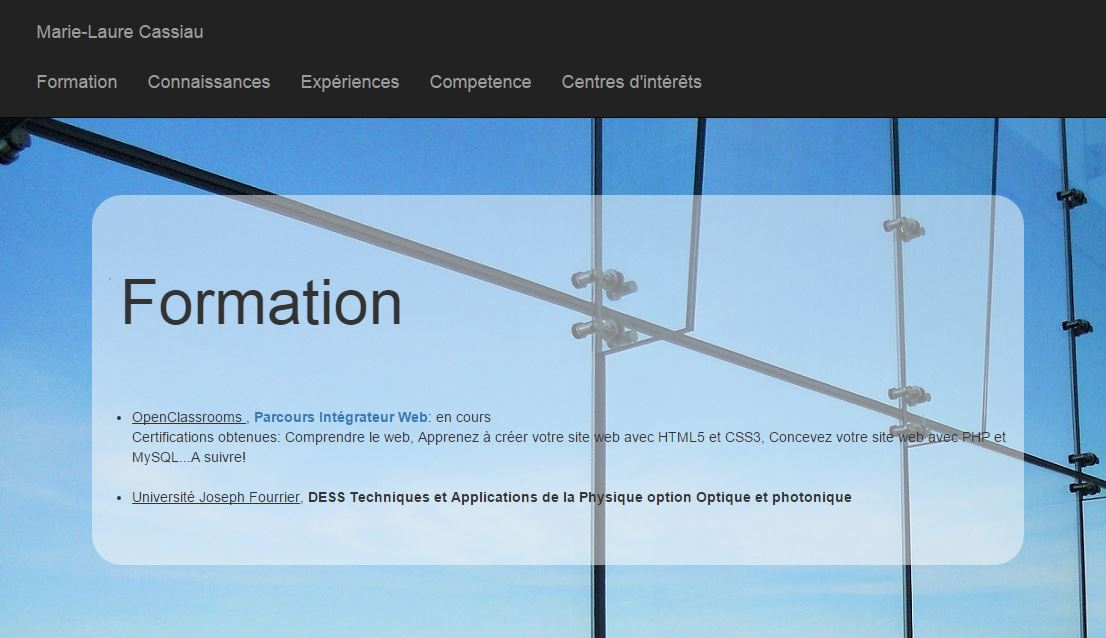
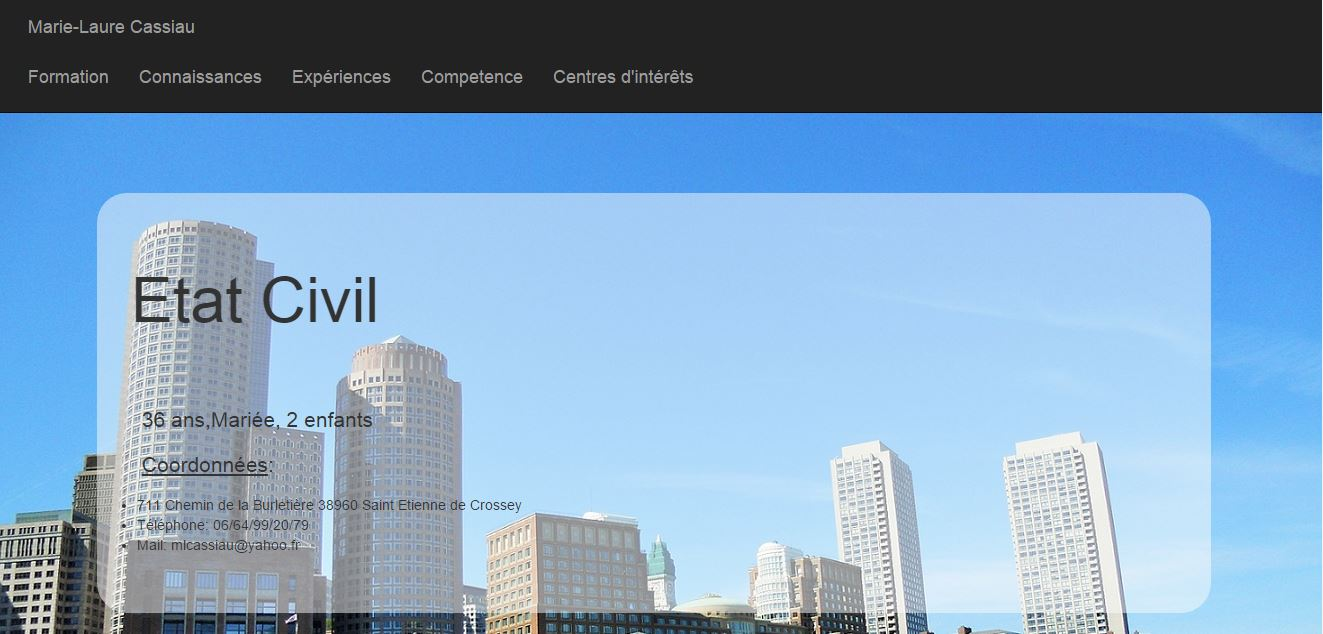
amélioration du visuel, meilleure utilisation des propriétés flex

diff --git a/projet_portfolio/Portfolio.css b/projet_portfolio/Portfolio.css
@@ -3,53 +3,60 @@
         background-color: whitesmoke;
         text-align: center;
         color:darkcyan;
-    }
-    #conteneur
-    {
-        display: flex;
-        -webkit-display:flex;
-        flex-wrap:wrap;
-        align-items:center
-            -webkit-align-items:center;
         background-image:linear-gradient(gainsboro,whitesmoke);
-
+        
     }
-    .element1
+ .element1
     {
         width:100%;
+        margin:auto;
+        margin-bottom: 30px;
 
     }
-    .element2
+/*=======================Premier Conteneur Flexbox: pavé coordonnées et pavé menu================================*/
+    #conteneur
     {
-        padding: 2%;
-        width:20%;
+       display: flex;
+       display: -webkit-flex;
+       -webkit-flex-flow:row wrap;
+       flex-flow:row wrap;
+        justify-content: space-around;
+       -webkit-justify-content: space-around;
+        align-items: center;
+        -webkit-align-items:center;
+        
     }
-    .element2 img
+   
+    .element2/*Pavé Coordonnées*/
+    {
+        padding: 3%;
+       width:20%;
+        background-color: darkcyan;
+        border-radius:20px;
+        color:gainsboro;
+        
+    }
+    .element2 img/*Photo de moi*/
     {
         box-shadow: 5px 5px 5px darkgrey;
-        border-radius: 30px;
-        width:50%
+        border-radius: 20px;
+        width:50%;
+        color:gainsboro;
        
     }
-    ul
+    ul/*Coordonnées*/
     {
          list-style-type:none;
         padding-left:2%;
     }
-.element4
-{
-    background-color: darkcyan;
-    border-radius:20px;
-    width:60%;
-    height:300px;
-}
-    .element3
-    {
-        margin:auto;
-        width:50%; 
-        margin-top: 60px;
-    }
-    a
+    .element3/* Menu*/
+    { 
+        background-color: darkcyan;
+        border-radius:20px;  
+       width:60%;      
+
+     }
+    a/*liens du menu*/
     {
          text-decoration: none;
          color:darkcyan;
@@ -59,31 +66,62 @@
         color:darkcyan;
     }
 
-    article h4
+   article h4/*éléments du menu*/
     {
         border:1px darkcyan solid;
         border-radius:10px;
         background-color: gainsboro;
-        padding:10px;
-
+        padding:15px;
+        width: 350px;
+        
+        
     }
-    #conteneur2
+
+    .conteneur1/*Conteneur contenant le menu*/
     {
         display:flex;
-        -webkit-display:flex;
+        display:-webkit-flex;
         flex-direction:column;
-        width:80%;
-        margin:auto;
-
+        flex-direction: -webkit-column;
+        justify-content: space-around;
+        -webkit-justify-content:space-around;
+        align-items: center;
+        -webkit-align-items:center;      
+       
     }
-    #Moirans,#CV,#Ville
+    /* Contenu du conteneur 2 de la flexbox, le corps qui contient les projets*/
+    #conteneur2
+    {
+        display:-webkit-flex;
+        display:flex;
+        flex-direction: -webkit-column;
+        flex-direction: column;
+
+        border-radius:20px;
+        width:95%;
+        margin:auto;
+        justify-content: space-around;
+         -webkit-justify-content:space-around;
+    }
+
+    h3 p 
+    {
+        padding:10%;
+    }
+
+    #Moirans,#CV,#Ville/*les projets*/
     {
         border:1px darkcyan solid;
         border-radius:20px;
-        padding:3%px;
-        margin-bottom: 3%;
+        align-items:stretch;
+        margin-top: 30px;
+        background-color: darkcyan;
+        color:gainsboro;
+       
+       
     }
-     #Moirans img,#CV img,#Ville img
+
+     #Moirans img,#CV img,#Ville img /*les images des projets*/
     {
         width:80%;
         box-shadow:5px 5px 5px darkcyan; 
@@ -136,14 +174,18 @@
 
 .element3
 {
-    width:70%;
-    margin:auto;
-    height:100%;
-    margin-top:45px;
+    width:60%;
     
 }
-    .element4{
-       width:50%;
+article h4/*éléments du menu*/
+    {
+        border:1px darkcyan solid;
+        border-radius:10px;
+        background-color: gainsboro;
+        padding:15px;
+        width: 200px;
+        margin:auto;
+        
     }
 a
 {
@@ -154,16 +196,7 @@ a:focus
 {
     color:darkcyan;
 }
-
-#conteneur2
-{
-    display:flex;
-    -webkit-display:flex;
-    flex-direction:column;
-    width:80%;
-    margin:auto;
-    
-}
+  
 
     #Moirans img,#CV img,#Autre img
     {

diff --git a/projet_portfolio/index.html b/projet_portfolio/index.html
@@ -11,18 +11,20 @@
 	</head>
 	
     <body>
-    <!--Comme on utilise la flexbox on met en place le container principal-->
-        <div id="conteneur">
-    <!-- L'entête avec le titre est le premier élémentde la flexbox-->
+   
+    <!-- L'entête avec le titre -->
     
             <header class="element1">
-                <h1>Objectif : Intégrateur web</h1>
+                <h1>Objectif :Développeur web</h1>
                 <h2>Portfolio de mes projets web  ... </h2>
                 <p>réalisé uniquement en HTML5/CSS3 et avec des flexbox</p>
             </header>
+         <!--Comme on utilise la flexbox on met en place le container principal-->
+        <div id="conteneur">
     <!-- La partie avec le nom et les coordonnées qui seront sur le côté,correspond au deuxième élément de la flexbox -->
             <aside class="element2">
-                <img src="photo_moi.jpg" alt="ma photo"><br/>
+                <h3>Marie-Laure Cassiau</h3>
+                <img src="Photo_moi.jpg" alt="ma photo"><br/>
                 <h4>Mes coordonées:</h4>
                 <ul>
                     <li>711 chemin de la Burletière<br/>
@@ -32,18 +34,20 @@
                 </ul>
             </aside>
     <!-- La partie menu qui comporte les projets, correspond au troisième élément flexbox-->
-            <div class="element4">
+            
             <article class="element3" >
+                <div class="conteneur1">
       
             <!-- Le menu avec accès rapide grâce aux ancres-->
-                <p id="menu">
-                    <a href="#CV"><h4> Pour accéder à mon cv, c'est ici !</h4></a>
-                    <a href="#Moirans"><h4>Site internet du triathlon de Moirans ( encours)</h4></a>
-                    <a href="#Ville"><h4>Le site du village de Saint Etienne de Crossey</h4></a>
+                <p >
+                    <a href="#CV"><h4 > Pour accéder à mon cv, c'est ici !</h4></a>
+                    <a href="#Moirans"><h4 >Site internet du triathlon de Moirans ( encours)</h4></a>
+                    <a href="#Ville"><h4 >Le site du village de Saint Etienne de Crossey</h4></a>
                     
                 </p>
+                     </div>
             </article>
-            </div>
+           
         <!-- fin du container-->
         </div>
         <section>
@@ -60,7 +64,7 @@
                 <!-- Le deuxième projet-->
                  <article id="Moirans">
                     <h3>Le projet du site de Trialp Moirans</h3>
-                    <p>Ce projet n'a débuté que récemment. Il consiste à reconstruire le site entièrement, pour lui donner un coup de jeune...
+                    <p>Ce projet n'a débuté que récemment.<br/> Il consiste à reconstruire le site entièrement, pour lui donner un coup de jeune...<br/>
                     C'est parfait pour appprendre à utiliser Bootstrap, mais ce site est en cours de construction, voici les deux premières pages:</p>
                     <img src="Trialp_index.JPG" alt="Future premiere page de trialp Moirans">
                     <img src="Trialp_page2.JPG" alt="Trialp Moirans page2">
@@ -71,6 +75,8 @@
                 <article id="Ville">
                     <h3>Le site du village de Saint Etienne de Crossey</h3>
                     <p> Ce site est en cours, c'est un projet OpenClassrooms... A visiter dans quelques jours, j'espère.</p> 
+                    <img src="Crossey_1.JPG" alt="Projet site web Crossey">
+                    <img src="Crossey_2.JPG" alt="Projet site web Crossey">
                 </article>
             </div>                
         </section>
